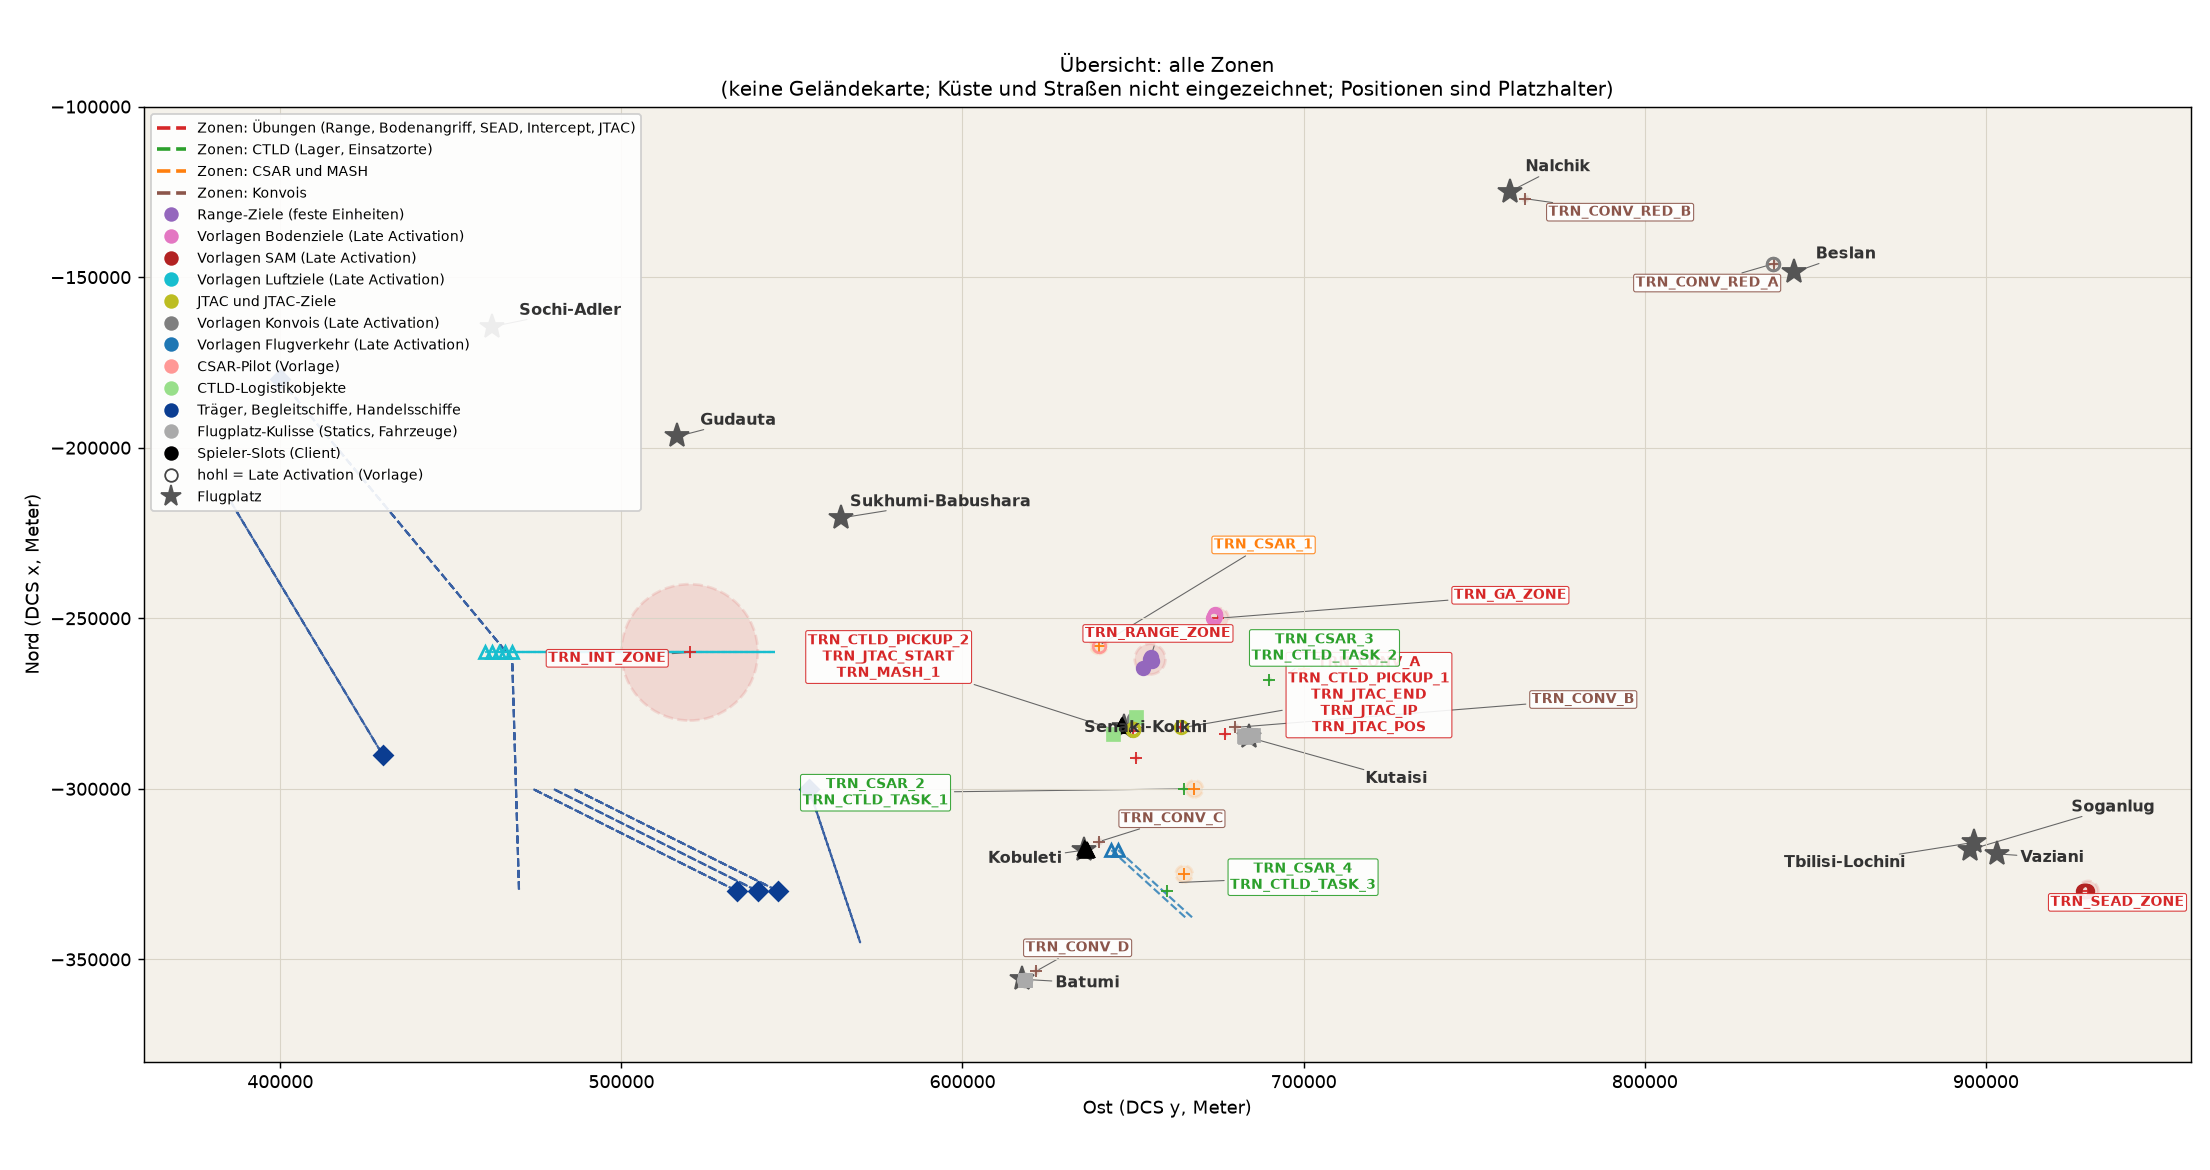
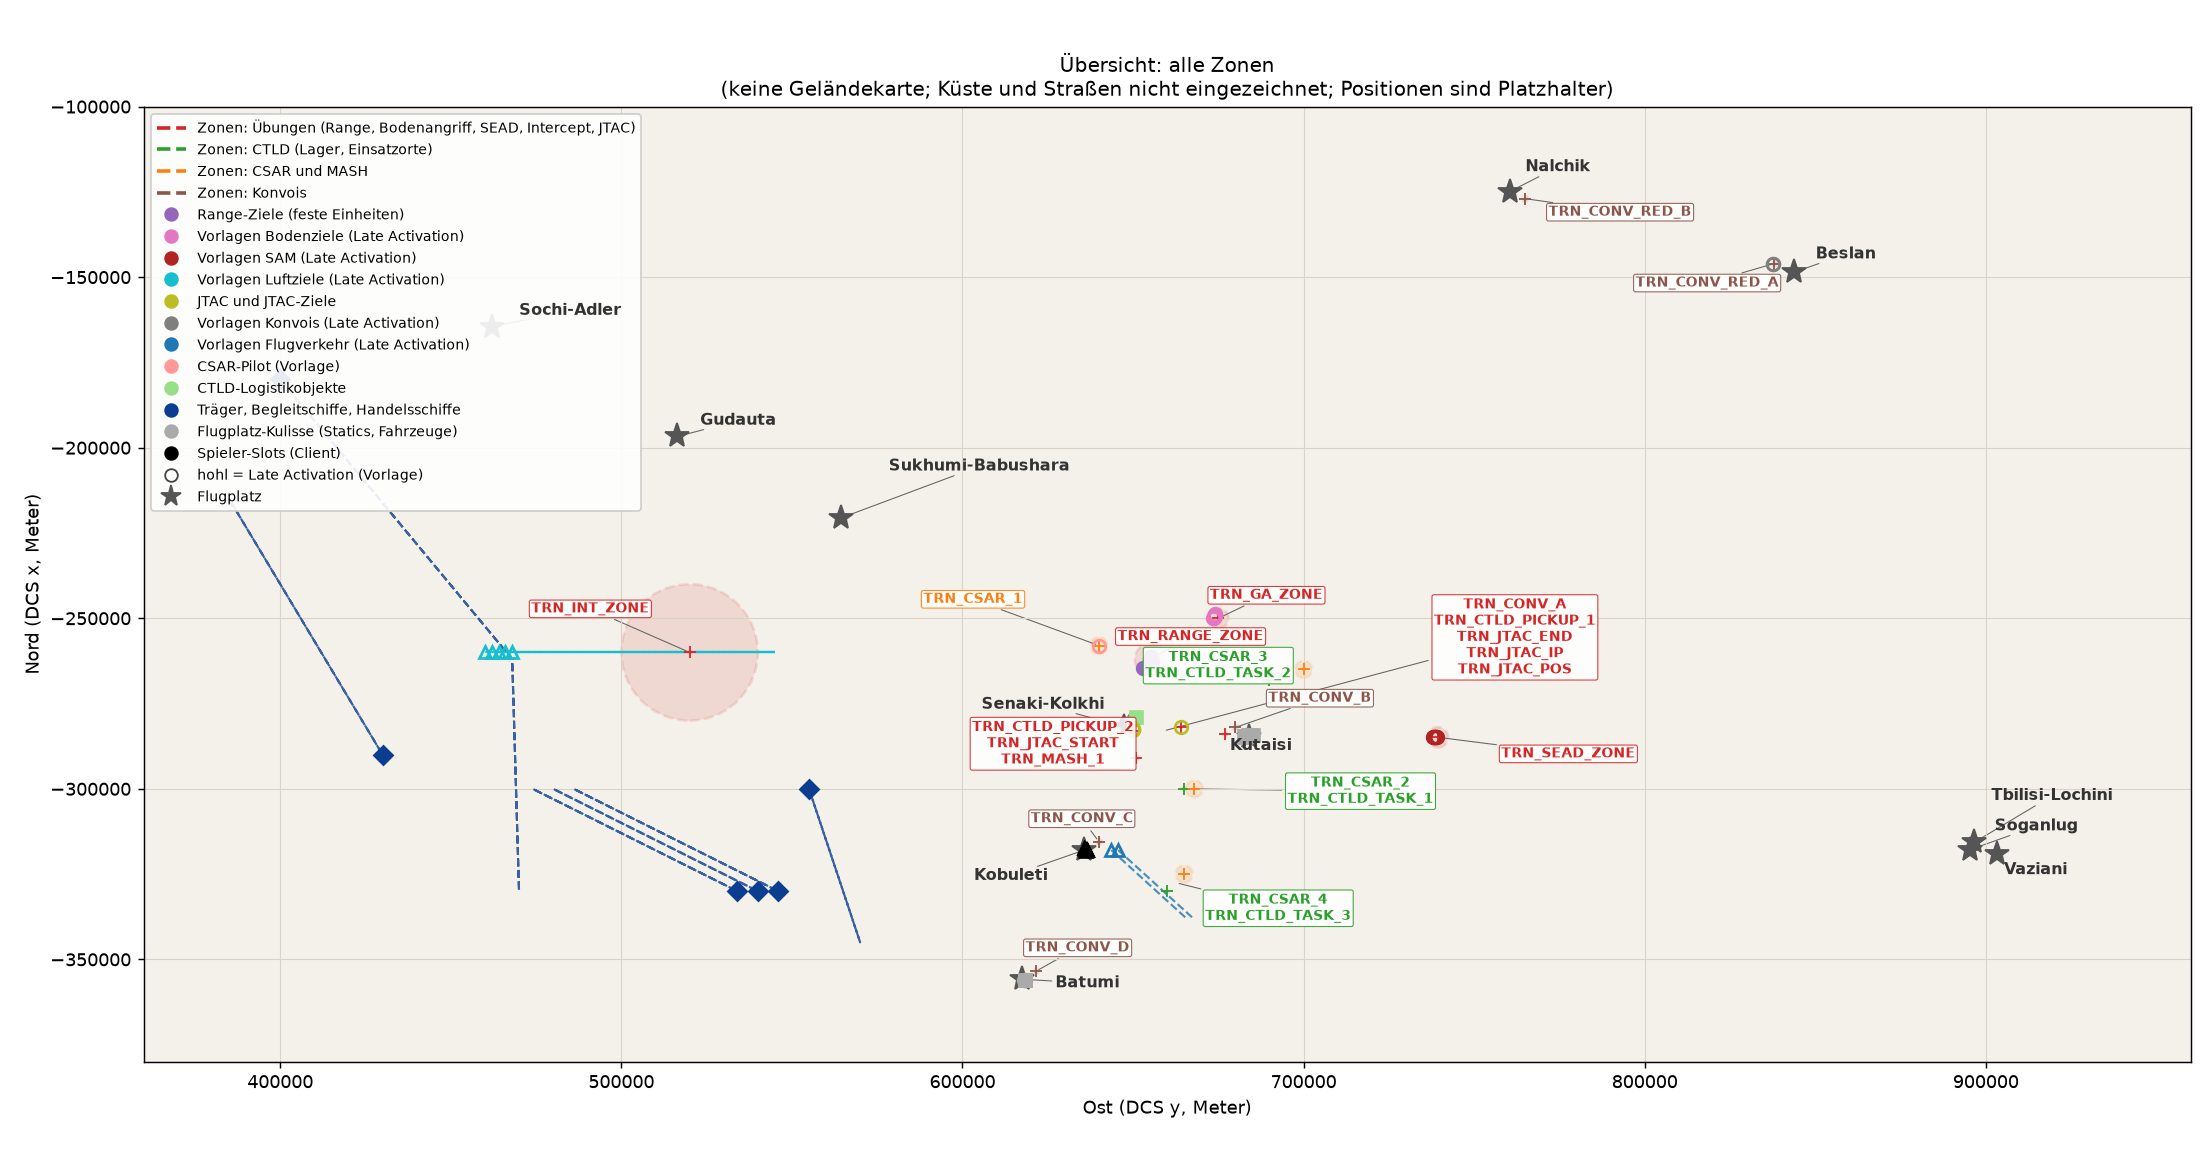
Move SEAD zone and all SAM/escort templates to 30 nm east of Kutaisi
- TRN_SEAD_ZONE at x=-284900, y=739400 (exactly 30.0 nm east of Kutaisi); all TRN_SAM_* templates move with it
- README notes the reduced distance to zones 5 and 1 (SA-10 range)
- .miz, map 04 and object list regenerated

Claude-Session: https://claude.ai/code/session_01Mwr4kcnCQ8zEk3rmR2P78B

diff --git a/tools/plot_map.py b/tools/plot_map.py
@@ -285,8 +285,8 @@ def main():
          "02_west_georgien.png", cluster_m=2600, figsize=(15, 13))
     draw(items, airports, (370000, 640000, -370000, -150000), "Schwarzes Meer: Träger, Schiffe, Intercept-Gebiet",
          "03_schwarzes_meer.png", cluster_m=9000, figsize=(15, 12))
-    draw(items, airports, (890000, 945000, -345000, -305000), "Osten (bei Tbilisi): SEAD/DEAD-Gebiet", "04_ost_sead.png",
-         cluster_m=1500, figsize=(14, 10))
+    draw(items, airports, (665000, 775000, -318000, -252000), "Osten von Kutaisi: SEAD/DEAD-Gebiet (ca. 30 nm)", "04_ost_sead.png",
+         cluster_m=2500, figsize=(15, 9))
     draw(items, airports, (740000, 860000, -160000, -115000), "Norden (Beslan bis Nalchik): feindlicher Konvoi", "05_nord_konvoi.png",
          cluster_m=3000, figsize=(14, 9))
     write_table(items)

diff --git a/tools/build_miz.py b/tools/build_miz.py
@@ -43,7 +43,7 @@ ROOT = Path(__file__).resolve().parent.parent
 POS = {
     "range":        (-262000, 655000),   # Bomben-/Strafing-Range, NNO von Senaki
     "ga":           (-250000, 675000),   # dynamische Bodenziele
-    "sead":         (-330000, 930000),   # Ebene ostlich von Tbilisi/Vaziani
+    "sead":         (-284900, 739400),   # ca. 30 nm (55,6 km) ostlich von Kutaisi
     "int":          (-260000, 520000),   # Schwarzes Meer
     "jtac_pos":     (-282000, 664000),   # zwischen Senaki und Kutaisi
     "jtac_ip":      (-291000, 651000),

diff --git a/mission/map/objekte.md b/mission/map/objekte.md
@@ -29,7 +29,7 @@ Alle Positionen sind **Platzhalter** (siehe README, Kapitel 9). DCS-Koordinaten:
 | `TRN_JTAC_START` | Übungen (Range, Bodenangriff, SEAD, Intercept, JTAC) | 500 | -283000 | 650000 | 42.2274 | 42.0790 |
 | `TRN_MASH_1` | CSAR und MASH | 300 | -283000 | 646000 | 42.2312 | 42.0311 |
 | `TRN_RANGE_ZONE` | Übungen (Range, Bodenangriff, SEAD, Intercept, JTAC) | 4500 | -262000 | 655000 | 42.4094 | 42.1661 |
-| `TRN_SEAD_ZONE` | Übungen (Range, Bodenangriff, SEAD, Intercept, JTAC) | 3000 | -330000 | 930000 | 41.4989 | 45.3237 |
+| `TRN_SEAD_ZONE` | Übungen (Range, Bodenangriff, SEAD, Intercept, JTAC) | 3000 | -284900 | 739400 | 42.1203 | 43.1436 |
 
 ## Bodeneinheiten (35)
 
@@ -63,13 +63,13 @@ Alle Positionen sind **Platzhalter** (siehe README, Kapitel 9). DCS-Koordinaten:
 | `TRN_GA_VEH_1` | Vorlagen Bodenziele (Late Activation) | red | 3x Ural-375 | ja | -250000 | 673500 | 42.4979 | 42.4040 |
 | `TRN_GA_VEH_2` | Vorlagen Bodenziele (Late Activation) | red | 3x GAZ-66, KAMAZ Truck | ja | -249800 | 673600 | 42.4995 | 42.4055 |
 | `TRN_GA_VEH_3` | Vorlagen Bodenziele (Late Activation) | red | 3x UAZ-469 | ja | -249600 | 673700 | 42.5012 | 42.4070 |
-| `TRN_SAM_SA10` | Vorlagen SAM (Late Activation) | red | 7x S-300PS 40B6M tr, S-300PS 54K6 cp, S-300PS 5P85C ln, S-300PS 5P85D ln, S-300PS 64H6E sr | ja | -330000 | 929300 | 41.4998 | 45.3155 |
-| `TRN_SAM_SA11` | Vorlagen SAM (Late Activation) | red | 5x SA-11 Buk CC 9S470M1, SA-11 Buk LN 9A310M1, SA-11 Buk SR 9S18M1 | ja | -330000 | 929100 | 41.5001 | 45.3131 |
-| `TRN_SAM_SA15` | Vorlagen SAM (Late Activation) | red | 2x Tor 9A331 | ja | -330000 | 929500 | 41.4995 | 45.3178 |
-| `TRN_SAM_SA2` | Vorlagen SAM (Late Activation) | red | 5x SNR_75V, S_75M_Volhov, p-19 s-125 sr | ja | -330000 | 928500 | 41.5008 | 45.3061 |
-| `TRN_SAM_SA3` | Vorlagen SAM (Late Activation) | red | 5x 5p73 s-125 ln, p-19 s-125 sr, snr s-125 tr | ja | -330000 | 928700 | 41.5006 | 45.3084 |
-| `TRN_SAM_SA6` | Vorlagen SAM (Late Activation) | red | 4x Kub 1S91 str, Kub 2P25 ln | ja | -330000 | 928900 | 41.5003 | 45.3108 |
-| `TRN_SAM_ZSU23` | Vorlagen SAM (Late Activation) | red | 2x ZSU-23-4 Shilka | ja | -330000 | 929700 | 41.4993 | 45.3201 |
+| `TRN_SAM_SA10` | Vorlagen SAM (Late Activation) | red | 7x S-300PS 40B6M tr, S-300PS 54K6 cp, S-300PS 5P85C ln, S-300PS 5P85D ln, S-300PS 64H6E sr | ja | -284900 | 738700 | 42.1210 | 43.1353 |
+| `TRN_SAM_SA11` | Vorlagen SAM (Late Activation) | red | 5x SA-11 Buk CC 9S470M1, SA-11 Buk LN 9A310M1, SA-11 Buk SR 9S18M1 | ja | -284900 | 738500 | 42.1212 | 43.1329 |
+| `TRN_SAM_SA15` | Vorlagen SAM (Late Activation) | red | 2x Tor 9A331 | ja | -284900 | 738900 | 42.1208 | 43.1377 |
+| `TRN_SAM_SA2` | Vorlagen SAM (Late Activation) | red | 5x SNR_75V, S_75M_Volhov, p-19 s-125 sr | ja | -284900 | 737900 | 42.1219 | 43.1258 |
+| `TRN_SAM_SA3` | Vorlagen SAM (Late Activation) | red | 5x 5p73 s-125 ln, p-19 s-125 sr, snr s-125 tr | ja | -284900 | 738100 | 42.1217 | 43.1282 |
+| `TRN_SAM_SA6` | Vorlagen SAM (Late Activation) | red | 4x Kub 1S91 str, Kub 2P25 ln | ja | -284900 | 738300 | 42.1215 | 43.1305 |
+| `TRN_SAM_ZSU23` | Vorlagen SAM (Late Activation) | red | 2x ZSU-23-4 Shilka | ja | -284900 | 739100 | 42.1206 | 43.1401 |
 
 ## Luftfahrzeuge (21)
 

diff --git a/README.md b/README.md
@@ -94,7 +94,7 @@ mission/    DCS_Training_Kaukasus.miz   (fertige Mission, Kapitel 9)
 - **Wetter:** klar, kein Nebel, leichter Wind (≤ 5 m/s), feste Tageszeit am Tag (Case I).
 - **Koalitionen:** Spieler und Carrier = **BLUE**. Alle Ziele, SAMs und Gegner = **RED**.
 - **Länder:** Wähle für BLUE Länder, für die im Editor alle Muster verfügbar sind. Prüfe die Verfügbarkeit von Mi-8MTV2 und AH-64D im Editor.
-- **Zonen-Abstand:** Halte zwischen den Zonen mindestens ca. 40 nm Abstand, damit SAM-Bedrohung und Ansagen anderer Zonen nicht stören. Zone 5 (JTAC) und Zone 1 (Bodenangriff) dürfen nicht überlappen.
+- **Zonen-Abstand:** Halte zwischen den Zonen möglichst viel Abstand, damit SAM-Bedrohung und Ansagen anderer Zonen nicht stören. Die SEAD-Zone liegt bewusst nur ca. 30 nm östlich von Kutaisi (nahe Zone 5 und 1); beim Stufenwechsel HARD (SA-10) kann der Westteil der JTAC-Straße im SAM-Bereich liegen. Zone 5 (JTAC) und Zone 1 (Bodenangriff) dürfen nicht überlappen.
 - **Startflugplatz:** ein Flugplatz mit allen Spieler-Slots (BLUE), Startstellungen frei wählbar.
 
 ### Spieler-Slots (Client)
@@ -417,7 +417,7 @@ Der Test ersetzt DCS, Moose, MIST und CTLD durch Attrappen und prüft: Laden der
 |------|----------------|------------------|
 | Range `TRN_RANGE_ZONE` | NNO von Senaki-Kolkhi | flaches Gelände, keine Siedlung; Strafing-Ziel `TRN_RANGE_STRAFE_1` hat freien Anflug (Kasten 3000 m × 300 m) |
 | Bodenangriff `TRN_GA_ZONE` | zwischen Senaki und Kutaisi, nordöstlich | freies Gelände, ≥ 15 km von der Range |
-| SEAD `TRN_SEAD_ZONE` | Ebene östlich von Tbilisi/Vaziani | flaches Gelände, Radius 3 km, weit weg von allen anderen Zonen |
+| SEAD `TRN_SEAD_ZONE` | ca. 30 nm (56 km) östlich von Kutaisi | flaches Gelände, Radius 3 km. Die SA-10-Reichweite (ca. 75 km) deckt die Zone 5 (JTAC) im Westen teilweise ab, siehe Kapitel 4, Zone 3 |
 | Intercept `TRN_INT_ZONE` | Schwarzes Meer westlich von Sukhumi | über Wasser |
 | Carrier `TRN_CARRIER` | Schwarzes Meer, ca. 45 nm vor der Küste, Route ca. 36 nm | über Wasser, keine Küste im Bereich der Route |
 | JTAC | Straße zwischen Senaki und Kutaisi | `TRN_JTAC_START` und `TRN_JTAC_END` **auf einer Straße**, `TRN_JTAC_POS` erhöht mit Sicht auf die Straße |
